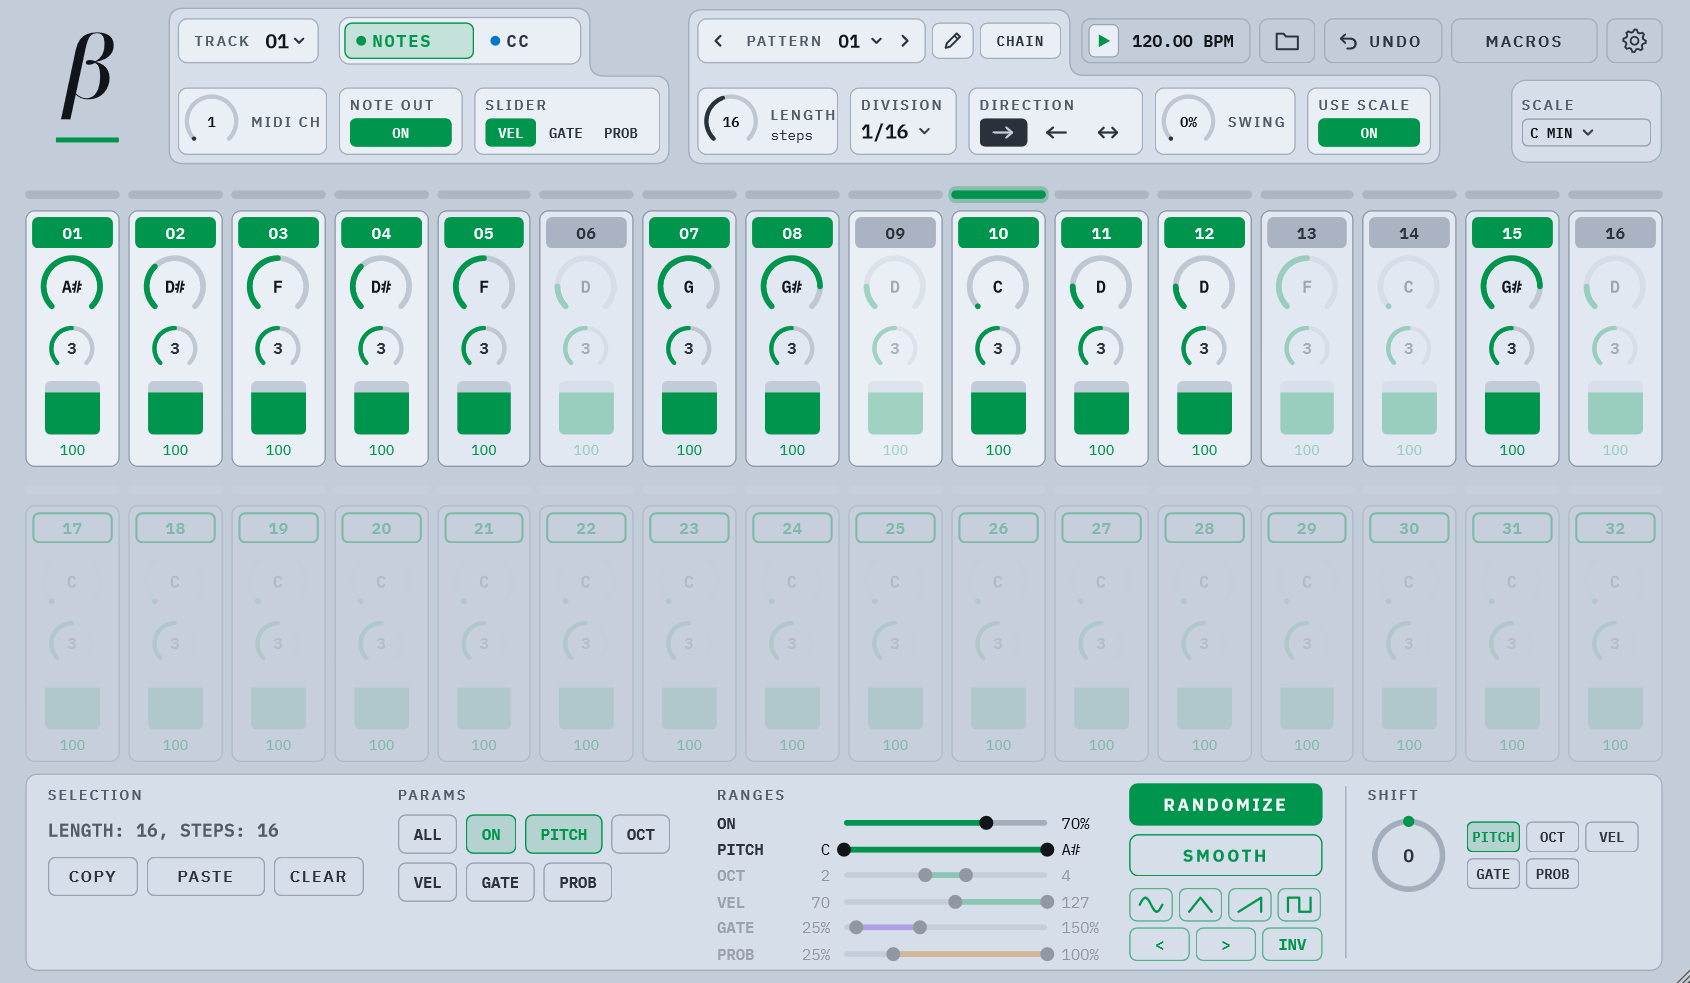
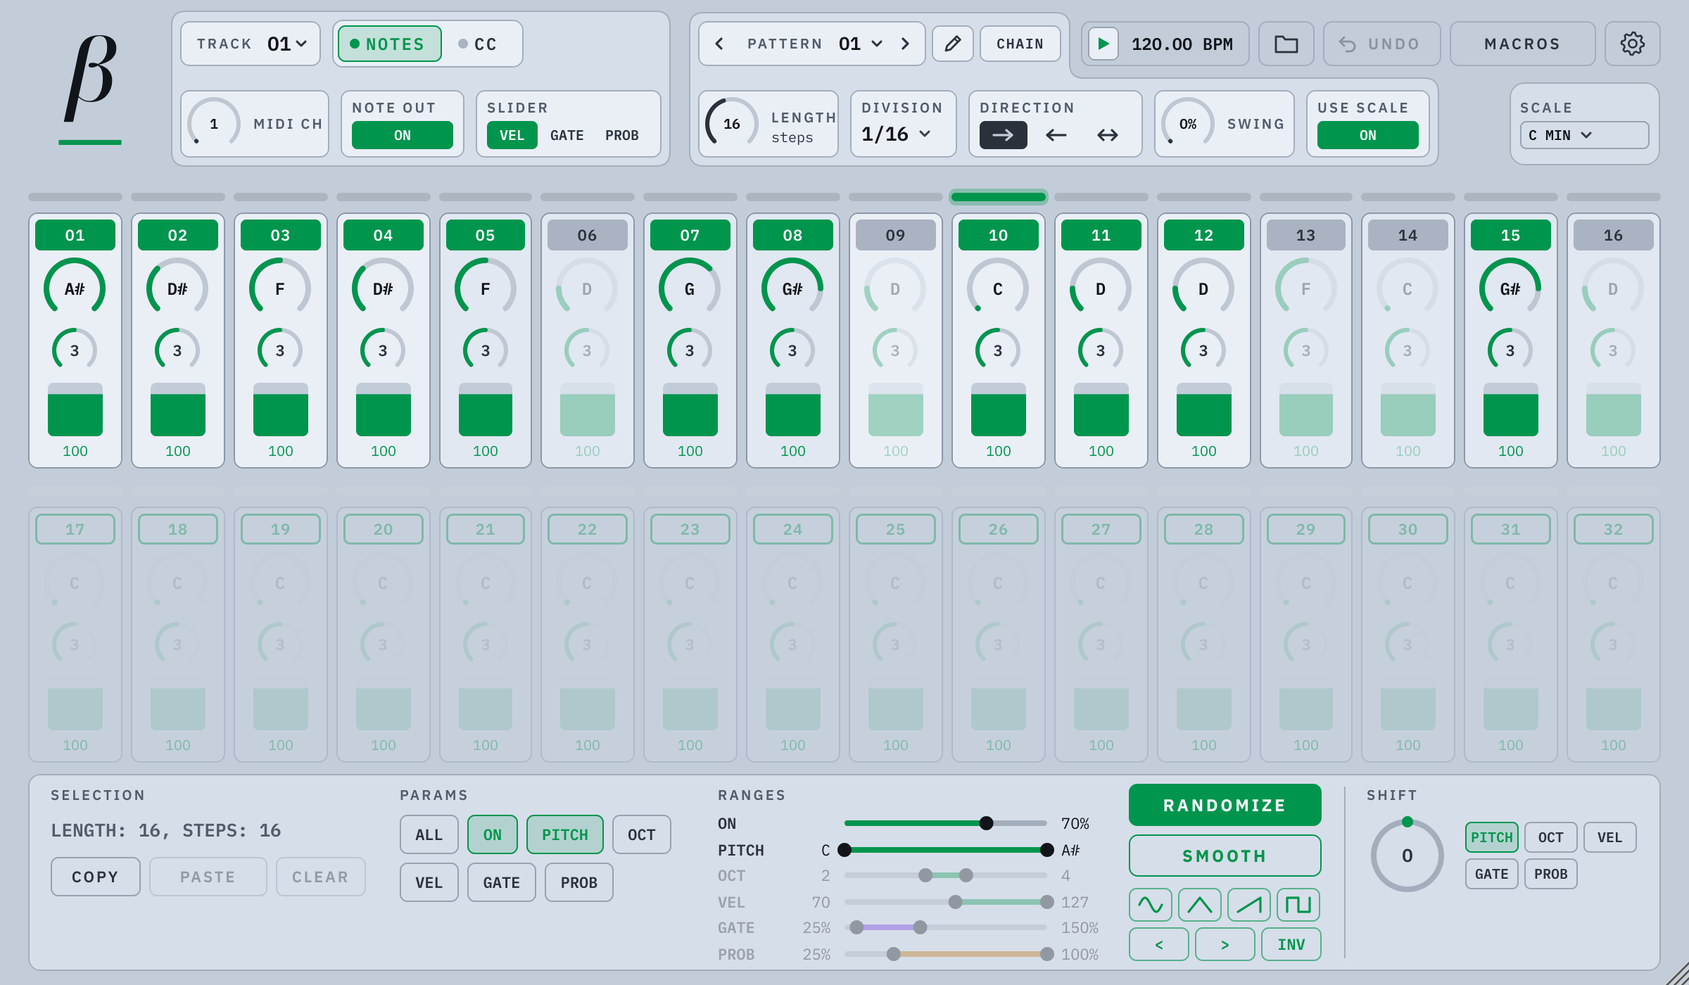
Docs: re-render the light theme and LEARN screenshots with the new track frame
Claude-Session: https://claude.ai/code/session_0131ae2gEaWsf3HAmv9ySpQ8

diff --git a/tests/Tests.cpp b/tests/Tests.cpp
@@ -2252,6 +2252,35 @@ int main (int argc, char** argv)
         ed.refreshAll();
         juce::MessageManager::getInstance()->runDispatchLoopUntil (100);
         savePng (ed.createComponentSnapshot (ed.getLocalBounds(), true, 2.0f), outDir.getChildFile ("docs-main@2x.png"));
+        // the manual's light theme picture: the same line, playing on step 10
+        proc->engine.playStep[0] = 9;
+        Theme::setLight (true);
+        ed.refreshAll();
+        juce::MessageManager::getInstance()->runDispatchLoopUntil (100);
+        savePng (ed.createComponentSnapshot (ed.getLocalBounds(), true, 2.0f), outDir.getChildFile ("docs-light@2x.png"));
+        Theme::setLight (false);
+        // the manual's LEARN picture: another line, steps 1-16 ON / PITCH / OCT and VEL 1-4 mapped, learning M053, playing on step 14
+        proc->edit (-1, [] (Project& p)
+        {
+            const int pcs[16] = { 3, 7, 3, 10, 5, 8, 3, 3, 3, 0, 8, 3, 8, 0, 5, 5 };
+            auto& tr = p.patterns[0].tracks[0];
+            for (int i = 0; i < 16; ++i) { tr.steps[(size_t) i].pitchClass = (std::int8_t) pcs[i]; tr.steps[(size_t) i].on = ! (i == 0 || i == 7 || i == 13); }
+            for (int i = 0; i < 16; ++i)
+            {
+                p.macros[(size_t) i] = defaultMacroMap (MacroTarget::stepOn, 0, 0, i, p.globals);
+                p.macros[(size_t) (16 + i)] = defaultMacroMap (MacroTarget::pitch, 0, 0, i, p.globals);
+                p.macros[(size_t) (32 + i)] = defaultMacroMap (MacroTarget::octave, 0, 0, i, p.globals);
+            }
+            for (int i = 0; i < 4; ++i) p.macros[(size_t) (48 + i)] = defaultMacroMap (MacroTarget::velocity, 0, 0, i, p.globals);
+        });
+        proc->engine.playStep[0] = 13;
+        ed.context().ui.selectedMacro = 52;
+        ed.context().ui.macroLearn = true;
+        ed.refreshAll();
+        juce::MessageManager::getInstance()->runDispatchLoopUntil (100);
+        savePng (ed.createComponentSnapshot (ed.getLocalBounds(), true, 2.0f), outDir.getChildFile ("docs-learn@2x.png"));
+        ed.context().ui.macroLearn = false;
+        ed.refreshAll();
         proc->engine.isPlaying = false;
         proc->engine.playStep[0] = -1;
     }
